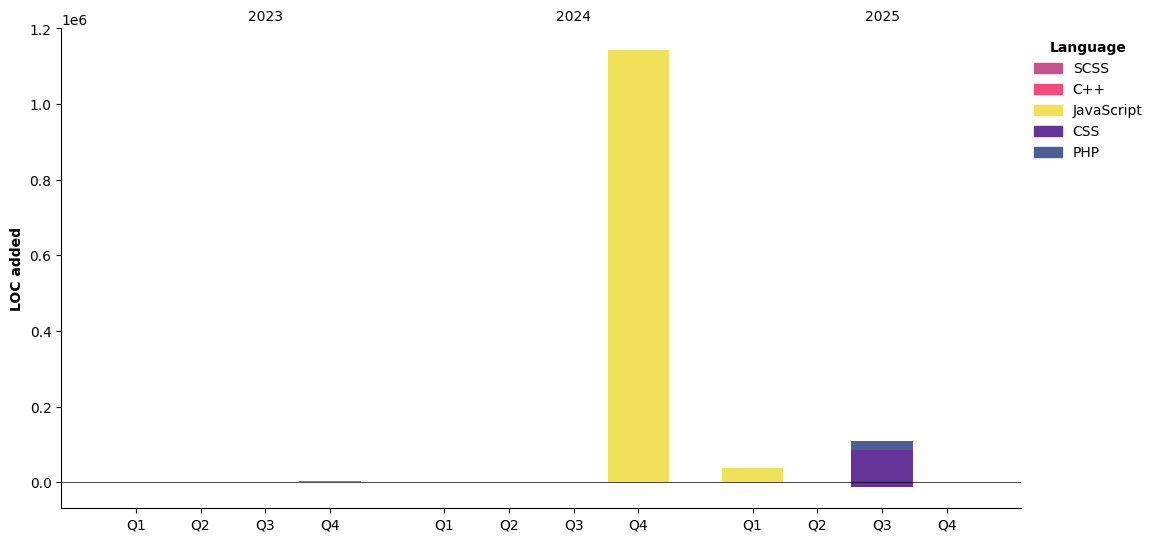
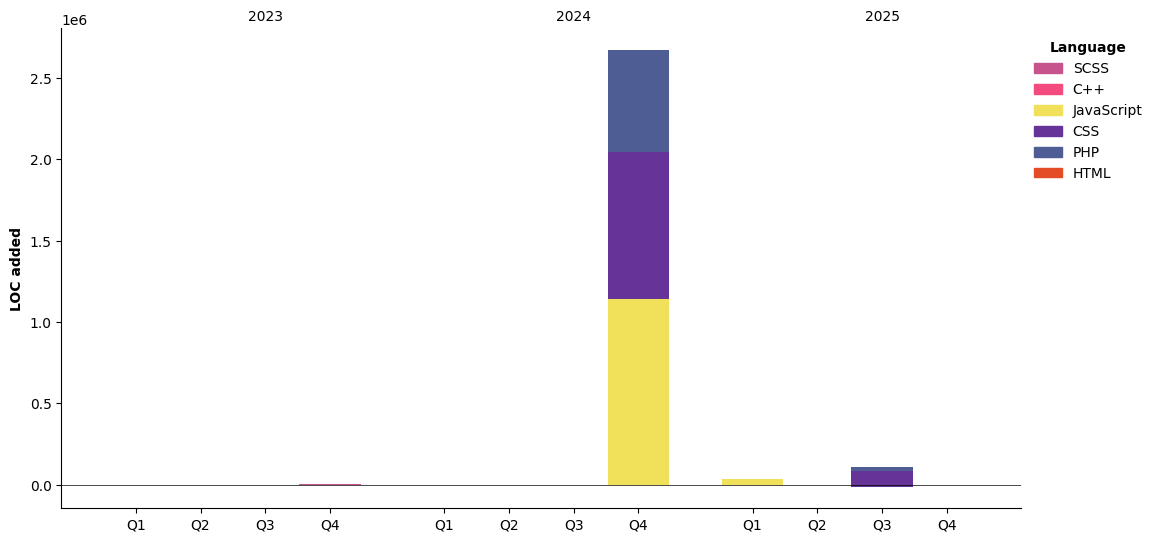
Updated with Dev Metrics

diff --git a/README.md b/README.md
@@ -8,6 +8,83 @@
 -->
 
 <!--START_SECTION:waka-->
+![Code Time](http://img.shields.io/badge/Code%20Time-20%20mins-blue)
+
+![Profile Views](http://img.shields.io/badge/Profile%20Views-61-blue)
+
+**🐱 My GitHub Data** 
+
+> 📦 98.5 kB Used in GitHub's Storage 
+ > 
+> 🏆 86 Contributions in the Year 2025
+ > 
+> 🚫 Not Opted to Hire
+ > 
+> 📜 7 Public Repositories 
+ > 
+> 🔑 4 Private Repositories 
+ > 
+**I'm a Night 🦉** 
+
+```text
+🌞 Morning                9 commits           ██░░░░░░░░░░░░░░░░░░░░░░░   06.82 % 
+🌆 Daytime                36 commits          ███████░░░░░░░░░░░░░░░░░░   27.27 % 
+🌃 Evening                34 commits          ██████░░░░░░░░░░░░░░░░░░░   25.76 % 
+🌙 Night                  53 commits          ██████████░░░░░░░░░░░░░░░   40.15 % 
+```
+📅 **I'm Most Productive on Wednesday** 
+
+```text
+Monday                   13 commits          ██░░░░░░░░░░░░░░░░░░░░░░░   09.85 % 
+Tuesday                  15 commits          ███░░░░░░░░░░░░░░░░░░░░░░   11.36 % 
+Wednesday                75 commits          ██████████████░░░░░░░░░░░   56.82 % 
+Thursday                 1 commits           ░░░░░░░░░░░░░░░░░░░░░░░░░   00.76 % 
+Friday                   12 commits          ██░░░░░░░░░░░░░░░░░░░░░░░   09.09 % 
+Saturday                 12 commits          ██░░░░░░░░░░░░░░░░░░░░░░░   09.09 % 
+Sunday                   4 commits           █░░░░░░░░░░░░░░░░░░░░░░░░   03.03 % 
+```
+
+
+📊 **This Week I Spent My Time On** 
+
+```text
+🕑 Time Zone: Asia/Jakarta
+
+💬 Programming Languages: 
+Blade Template           13 mins             █████████████████░░░░░░░░   68.24 % 
+C++                      4 mins              ██████░░░░░░░░░░░░░░░░░░░   23.09 % 
+Markdown                 0 secs              █░░░░░░░░░░░░░░░░░░░░░░░░   04.55 % 
+PHP                      0 secs              █░░░░░░░░░░░░░░░░░░░░░░░░   04.11 % 
+
+🔥 Editors: 
+VS Code                  20 mins             █████████████████████████   100.00 % 
+
+🐱💻 Projects: 
+land-classification      19 mins             ████████████████████████░   95.05 % 
+laravel-jwt-2            1 min               █░░░░░░░░░░░░░░░░░░░░░░░░   04.95 % 
+
+💻 Operating System: 
+Windows                  20 mins             █████████████████████████   100.00 % 
+```
+
+**I Mostly Code in CSS** 
+
+```text
+CSS                      2 repos             █████░░░░░░░░░░░░░░░░░░░░   20.00 % 
+PHP                      2 repos             █████░░░░░░░░░░░░░░░░░░░░   20.00 % 
+JavaScript               2 repos             █████░░░░░░░░░░░░░░░░░░░░   20.00 % 
+HTML                     2 repos             █████░░░░░░░░░░░░░░░░░░░░   20.00 % 
+C++                      1 repo              ██░░░░░░░░░░░░░░░░░░░░░░░   10.00 % 
+```
+
+
+
+**Timeline**
+
+![Lines of Code chart](https://raw.githubusercontent.com/sulthonhere/sulthonhere/main/assets/bar_graph.png)
+
+
+ Last Updated on 22/07/2025 17:34:07 UTC
 <!--END_SECTION:waka-->
 
 <img src="https://github-readme-stats.vercel.app/api/top-langs/?username=sulthonhere&layout=compact&theme=default" alt="Top Languages" />
